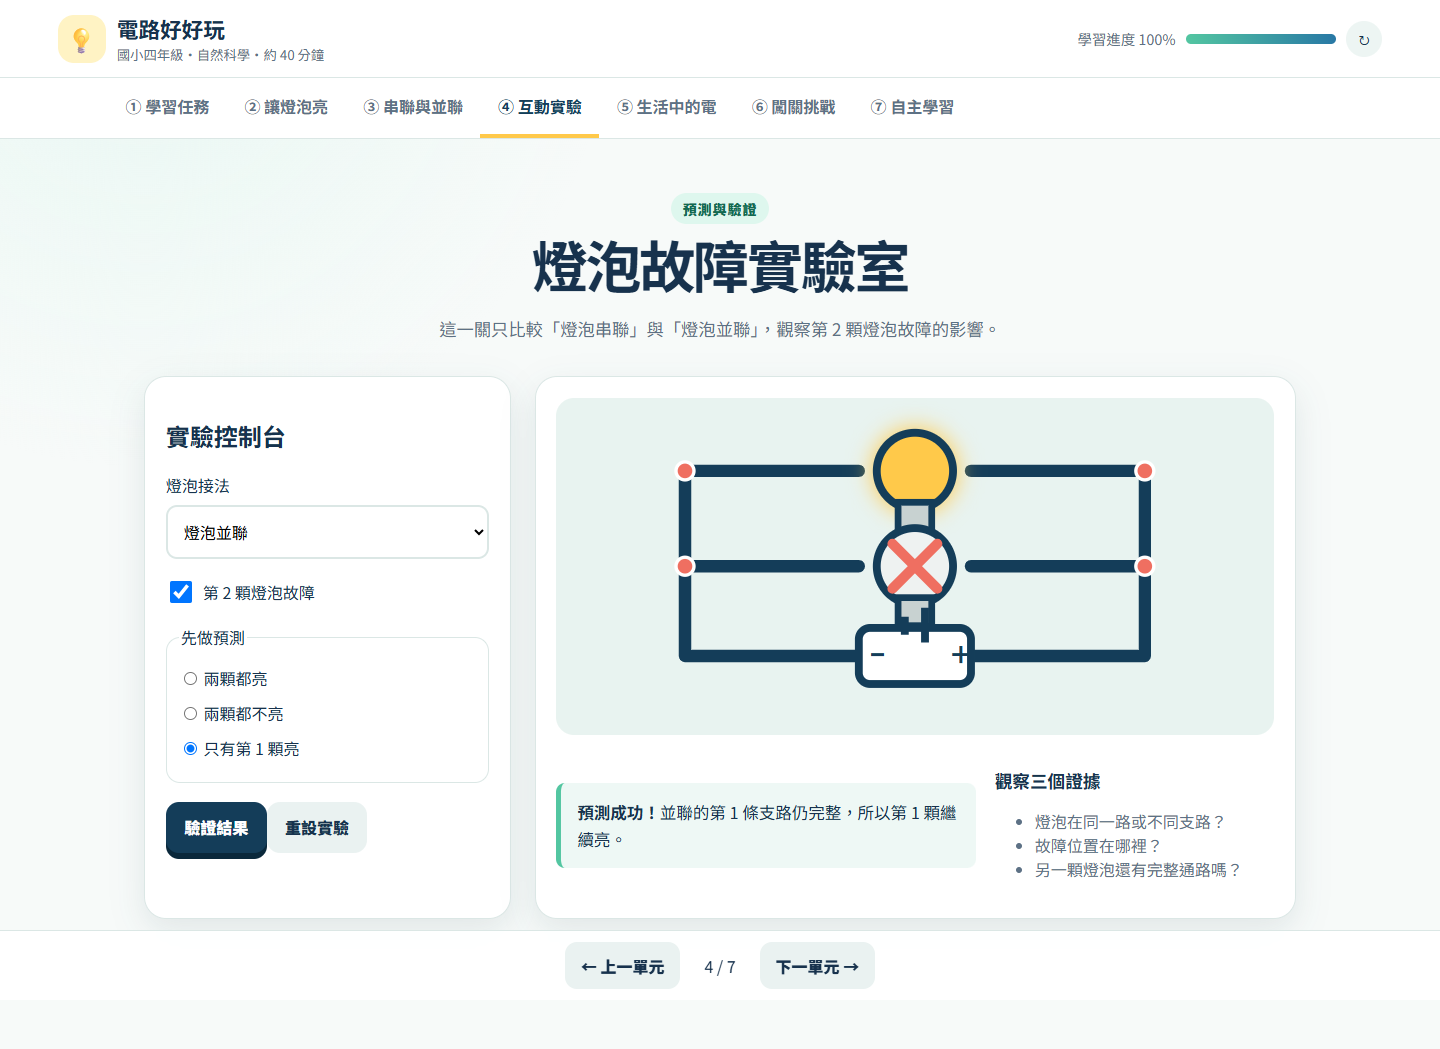
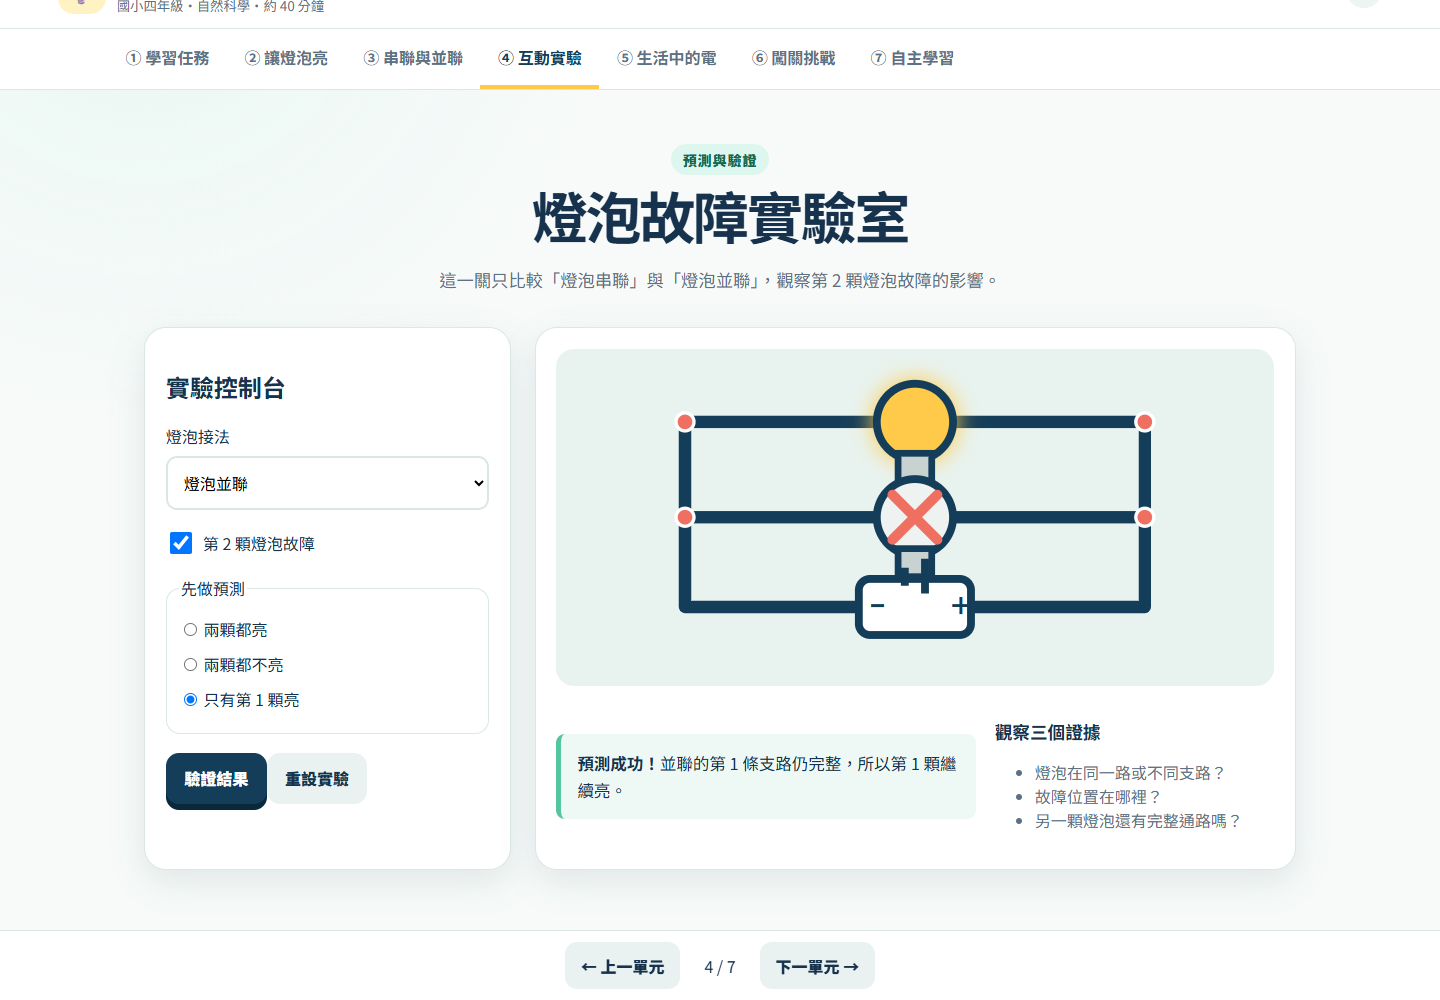
fix: sync parallel lab wiring

diff --git a/index.html b/index.html
@@ -113,7 +113,7 @@
 
     <section class="tab-panel" id="lab" role="tabpanel" aria-labelledby="tab-lab" hidden>
       <header class="panel-heading"><span class="eyebrow">預測與驗證</span><h1>燈泡故障實驗室</h1><p>這一關只比較「燈泡串聯」與「燈泡並聯」，觀察第 2 顆燈泡故障的影響。</p></header>
-      <div class="lab-layout"><div class="control-card"><h2>實驗控制台</h2><label>燈泡接法<select id="labMode"><option value="series">燈泡串聯</option><option value="parallel">燈泡並聯</option></select></label><label class="check-row"><input id="labFault" type="checkbox"> 第 2 顆燈泡故障</label><fieldset><legend>先做預測</legend><label><input type="radio" name="prediction" value="both-on"> 兩顆都亮</label><label><input type="radio" name="prediction" value="both-off"> 兩顆都不亮</label><label><input type="radio" name="prediction" value="one-on"> 只有第 1 顆亮</label></fieldset><button id="runLab" type="button" class="primary-button">驗證結果</button><button id="resetLab" type="button" class="secondary-button">重設實驗</button></div><div class="lab-result"><div id="houseCircuit" class="house-circuit series" role="img" aria-label="兩顆燈泡串聯且正常發亮"><svg viewBox="0 0 640 300" aria-hidden="true"><g class="lab-series-diagram"><path d="M85 230V80H210 M280 80H360 M430 80H555V230H370 M270 230H85" class="wire lab-wire"/><g class="lab-svg-bulb one dim" transform="translate(245 80)"><circle r="34"/><path d="M-15 28h30v25h-30z"/></g><g class="lab-svg-bulb two dim" transform="translate(395 80)"><circle r="34"/><path d="M-15 28h30v25h-30z"/></g><g class="lab-svg-battery" transform="translate(320 230)"><rect x="-50" y="-25" width="100" height="50" rx="10"/><path d="M-9-35v16M9-43v31"/><text x="-40" y="7">−</text><text x="30" y="7">＋</text></g><path class="fault-mark" d="M375 55l40 40m0-40-40 40"/></g><g class="lab-parallel-diagram"><path d="M115 230V65H270 M370 65H525V230H370 M270 230H115 M115 150H270 M370 150H525" class="wire lab-wire"/><circle cx="115" cy="65" r="8" class="junction"/><circle cx="525" cy="65" r="8" class="junction"/><circle cx="115" cy="150" r="8" class="junction"/><circle cx="525" cy="150" r="8" class="junction"/><g class="lab-svg-bulb one" transform="translate(320 65)"><circle r="34"/><path d="M-15 28h30v25h-30z"/></g><g class="lab-svg-bulb two" transform="translate(320 150)"><circle r="34"/><path d="M-15 28h30v25h-30z"/></g><g class="lab-svg-battery" transform="translate(320 230)"><rect x="-50" y="-25" width="100" height="50" rx="10"/><path d="M-9-35v16M9-43v31"/><text x="-40" y="7">−</text><text x="30" y="7">＋</text></g><path class="fault-mark" d="M300 130l40 40m0-40-40 40"/></g></svg></div><div id="labFeedback" class="feedback large" aria-live="polite"><strong>操作提示：</strong>選擇燈泡接法、預測結果，再按「驗證結果」。</div><div class="evidence-list"><h2>觀察三個證據</h2><ul><li>燈泡在同一路或不同支路？</li><li>故障位置在哪裡？</li><li>另一顆燈泡還有完整通路嗎？</li></ul></div></div></div>
+      <div class="lab-layout"><div class="control-card"><h2>實驗控制台</h2><label>燈泡接法<select id="labMode"><option value="series">燈泡串聯</option><option value="parallel">燈泡並聯</option></select></label><label class="check-row"><input id="labFault" type="checkbox"> 第 2 顆燈泡故障</label><fieldset><legend>先做預測</legend><label><input type="radio" name="prediction" value="both-on"> 兩顆都亮</label><label><input type="radio" name="prediction" value="both-off"> 兩顆都不亮</label><label><input type="radio" name="prediction" value="one-on"> 只有第 1 顆亮</label></fieldset><button id="runLab" type="button" class="primary-button">驗證結果</button><button id="resetLab" type="button" class="secondary-button">重設實驗</button></div><div class="lab-result"><div id="houseCircuit" class="house-circuit series" role="img" aria-label="兩顆燈泡串聯且正常發亮"><svg viewBox="0 0 640 300" aria-hidden="true"><g class="lab-series-diagram"><path d="M85 230V80H210 M280 80H360 M430 80H555V230H370 M270 230H85" class="wire lab-wire"/><g class="lab-svg-bulb one dim" transform="translate(245 80)"><circle r="34"/><path d="M-15 28h30v25h-30z"/></g><g class="lab-svg-bulb two dim" transform="translate(395 80)"><circle r="34"/><path d="M-15 28h30v25h-30z"/></g><g class="lab-svg-battery" transform="translate(320 230)"><rect x="-50" y="-25" width="100" height="50" rx="10"/><path d="M-9-35v16M9-43v31"/><text x="-40" y="7">−</text><text x="30" y="7">＋</text></g><path class="fault-mark" d="M375 55l40 40m0-40-40 40"/></g><g class="lab-parallel-diagram"><path d="M115 230V65 M525 65V230 M270 230H115 M370 230H525" class="wire lab-wire"/><path d="M115 65H285" class="wire lab-wire lab-branch-wire branch-one-left"/><path d="M355 65H525" class="wire lab-wire lab-branch-wire branch-one-right"/><path d="M115 150H285" class="wire lab-wire lab-branch-wire branch-two-left"/><path d="M355 150H525" class="wire lab-wire lab-branch-wire branch-two-right"/><circle cx="115" cy="65" r="8" class="junction"/><circle cx="525" cy="65" r="8" class="junction"/><circle cx="115" cy="150" r="8" class="junction"/><circle cx="525" cy="150" r="8" class="junction"/><g class="lab-svg-bulb one" transform="translate(320 65)"><circle r="34"/><path d="M-15 28h30v25h-30z"/></g><g class="lab-svg-bulb two" transform="translate(320 150)"><circle r="34"/><path d="M-15 28h30v25h-30z"/></g><g class="lab-svg-battery" transform="translate(320 230)"><rect x="-50" y="-25" width="100" height="50" rx="10"/><path d="M-9-35v16M9-43v31"/><text x="-40" y="7">−</text><text x="30" y="7">＋</text></g><path class="fault-mark" d="M300 130l40 40m0-40-40 40"/></g></svg></div><div id="labFeedback" class="feedback large" aria-live="polite"><strong>操作提示：</strong>選擇燈泡接法、預測結果，再按「驗證結果」。</div><div class="evidence-list"><h2>觀察三個證據</h2><ul><li>燈泡在同一路或不同支路？</li><li>故障位置在哪裡？</li><li>另一顆燈泡還有完整通路嗎？</li></ul></div></div></div>
     </section>
 
     <section class="tab-panel" id="life" role="tabpanel" aria-labelledby="tab-life" hidden>

diff --git a/js/interactions.js b/js/interactions.js
@@ -131,6 +131,17 @@ export function initLab() {
   const faultInput = document.querySelector('#labFault');
   const circuit = document.querySelector('#houseCircuit');
   const feedback = document.querySelector('#labFeedback');
+  const predictions = document.querySelectorAll('input[name="prediction"]');
+  const renderPreview = () => {
+    const mode = modeInput.value;
+    const modeLabel = mode === 'series' ? '串聯' : '並聯';
+    circuit.className = `house-circuit ${mode}`;
+    circuit.setAttribute('aria-label', `兩顆燈泡${modeLabel}接線示意，尚未驗證${faultInput.checked ? '第 2 顆燈泡故障' : '正常'}結果`);
+    predictions.forEach(input => input.checked = false);
+    feedback.innerHTML = `<strong>先做預測：</strong>目前是燈泡${modeLabel}${faultInput.checked ? '，第 2 顆設定為故障' : ''}。觀察接線後選擇預測，再按「驗證結果」。`;
+  };
+  modeInput.addEventListener('change', renderPreview);
+  faultInput.addEventListener('change', renderPreview);
   document.querySelector('#runLab').addEventListener('click', () => {
     const mode = modeInput.value;
     const fault = faultInput.checked;
@@ -147,7 +158,7 @@ export function initLab() {
   });
   document.querySelector('#resetLab').addEventListener('click', () => {
     modeInput.value = 'series'; faultInput.checked = false;
-    document.querySelectorAll('input[name="prediction"]').forEach(input => input.checked = false);
+    predictions.forEach(input => input.checked = false);
     circuit.className = 'house-circuit series';
     circuit.setAttribute('aria-label', '兩顆燈泡串聯且正常發亮');
     feedback.innerHTML = '<strong>操作提示：</strong>選擇接法、預測結果，再按「驗證結果」。';

diff --git a/audit/physics-audit-report.md b/audit/physics-audit-report.md
@@ -1,8 +1,8 @@
 # 電路物理互動稽核報告
 
-- 稽核時間：2026-07-13T22:34:16.450Z
+- 稽核時間：2026-07-14T00:15:32.826Z
 - 結果：通過
-- 通過／失敗：20／0
+- 通過／失敗：22／0
 
 | 檢查項目 | 結果 | 說明 |
 |---|---:|---|
@@ -14,6 +14,8 @@
 | 接法：bulb-parallel | 通過 | {"mode":"bulb-parallel","visible":1,"title":"兩顆燈泡分別接在兩條支路","feedback":"第 1 顆仍亮：第 2 支路中斷，但第 1 支路仍是完整通路。","ok":true} |
 | 接法：battery-series | 通過 | {"mode":"battery-series","visible":1,"title":"第 1 顆正極接第 2 顆負極","feedback":"燈泡熄滅：拿掉一顆電池後，串聯的唯一通路被切斷。","ok":true} |
 | 接法：battery-parallel | 通過 | {"mode":"battery-parallel","visible":1,"title":"正極接正極，負極接負極","feedback":"燈泡仍亮：拿掉一顆後，另一顆仍形成通路，但可使用的時間會縮短。","ok":true} |
+| 實驗接法即時同步 | 通過 | {"parallelClass":true,"diagramVisible":true,"prompt":"先做預測：目前是燈泡並聯。觀察接線後選擇預測，再按「驗證結果」。","ok":true} |
+| 並聯支路接到燈泡端點 | 通過 | [{"name":"one","leftGap":1.00384521484375,"rightGap":1.00384521484375,"ok":true},{"name":"two","leftGap":1.00384521484375,"rightGap":1.00384521484375,"ok":true}] |
 | 故障規則：series-normal | 通過 | {"id":"series-normal","mode":"series","fault":false,"prediction":"both-on","labelIncludes":"串聯且正常發亮","feedbackIncludes":"兩顆都亮","label":"兩顆燈泡串聯且正常發亮","feedback":"觀察結果：兩顆都亮。它們共用一條路。","ok":true} |
 | 故障規則：series-fault | 通過 | {"id":"series-fault","mode":"series","fault":true,"prediction":"both-off","labelIncludes":"兩顆燈泡都不亮","feedbackIncludes":"唯一通路被故障處切斷","label":"第 2 顆燈泡故障，串聯的兩顆燈泡都不亮","feedback":"預測成功！串聯的唯一通路被故障處切斷，兩顆都不亮。","ok":true} |
 | 故障規則：parallel-fault | 通過 | {"id":"parallel-fault","mode":"parallel","fault":true,"prediction":"one-on","labelIncludes":"第 1 顆仍亮","feedbackIncludes":"第 1 條支路仍完整","label":"第 2 顆燈泡故障，並聯的第 1 顆仍亮","feedback":"預測成功！並聯的第 1 條支路仍完整，所以第 1 顆繼續亮。","ok":true} |

diff --git a/docs/test-report.md b/docs/test-report.md
@@ -2,7 +2,7 @@
 
 檢核日期：2026-07-14
 
-版本：v1.2.1
+版本：v1.2.2
 
 ## 結果摘要
 
@@ -13,6 +13,7 @@
 | 燈泡接點 | 通過 | 首頁、概念卡、單燈與四種串並聯圖均確認：導線分別接側邊金屬殼與底部接點 |
 | 電流方向顯示 | 通過 | 「串聯與並聯」四種接法皆為 0 個箭頭、0 個箭頭標記；小紅色光點沿實線導線由正極流向負極，並聯支路的分流與會合方向正確 |
 | 四種接法 | 通過 | 每次只顯示一張正確圖層；燈泡與電池的串、並聯接點、支路、移除元件與回饋一致 |
+| 實驗接線 | 通過 | 下拉選單切換即時換圖；並聯兩條支路的左右導線均接至燈泡端點 |
 | 故障實驗 | 通過 | 正常兩燈亮、串聯故障兩燈滅、並聯故障第一燈仍亮 |
 | 生活應用 | 通過 | 6 張卡片皆可用滑鼠、鍵盤或觸控揭示視覺證據與概念解答 |
 | 測驗 | 通過 | 10 題、每題 4 個選項；答案索引 0–3 均有使用且回饋正常 |
@@ -27,8 +28,8 @@
 
 - 可重跑設定：`physics-audit.json`
 - 稽核指令：`npm run audit:physics`
-- 結果：20／20 通過，0 失敗。
-- 測試規則：完整通路、四種串並聯接法、移除元件、三種故障邊界、生活證據、題庫邊界、三種 viewport、降低動畫、隱藏頁籤停止動畫、主控台與請求。
+- 結果：22／22 通過，0 失敗。
+- 測試規則：完整通路、四種串並聯接法、實驗接法即時同步、並聯端點連接、移除元件、三種故障邊界、生活證據、題庫邊界、三種 viewport、降低動畫、隱藏頁籤停止動畫、主控台與請求。
 - 詳細報告：`audit/physics-audit-report.md` 與 `audit/physics-audit-report.json`。
 
 ## 實際操作與視覺證據

diff --git a/CHANGELOG.md b/CHANGELOG.md
@@ -1,5 +1,17 @@
 # 更新紀錄
 
+## [1.2.2] - 2026-07-14
+
+### 修正
+
+- 修正實驗室切換為「燈泡並聯」後，接線圖仍停留在串聯狀態的問題。
+- 將並聯圖的兩條支路導線延伸至燈泡端點，消除導線與燈泡之間的空隙。
+
+### 改善
+
+- 接法或故障條件變更時即時更新接線預覽，並重新要求學生預測後再驗證。
+- 新增接法同步與並聯端點連接的自動化回歸檢核。
+
 ## [1.2.1] - 2026-07-14
 
 ### 修正

diff --git a/README.md b/README.md
@@ -82,7 +82,7 @@ HTML5、CSS3、SVG、原生 JavaScript、JSON、Vite。
 
 ## 版本
 
-目前版本：v1.2.0。完整內容請見 [CHANGELOG.md](./CHANGELOG.md)。
+目前版本：v1.2.2。完整內容請見 [CHANGELOG.md](./CHANGELOG.md)。
 
 ## 授權與引用
 
